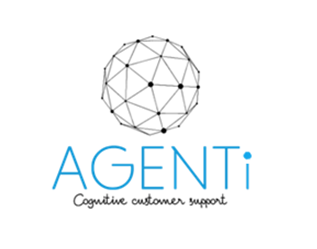
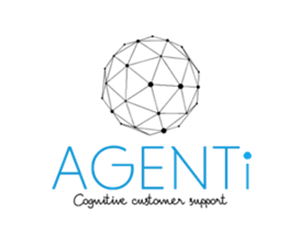
img alignment fix

Changed region(s): [[0.1562, 0.1406, 0.875, 0.8434]]

diff --git a/index.html b/index.html
@@ -93,7 +93,7 @@
             </div>
             <div class="row">
                 <div class="col-sm-4 portfolio-item shuffle-me">
-                    <a href="https://github.com/SJSU272Lab/Agent-I" class="portfolio-link" >
+                    <a href="https://github.com/SJSU272Lab/Agent-I" style="padding-left: 30px" class="portfolio-link" >
                         <img src="img/portfolio/agenti.png" class="img-responsive" alt="">
                         <img src="img/portfolio/ibmwatson.png" style=" display: none;"  class="img-responsive" alt="">
                         <img src="img/portfolio/archi.PNG" style=" display: none;"  class="img-responsive" alt="">
